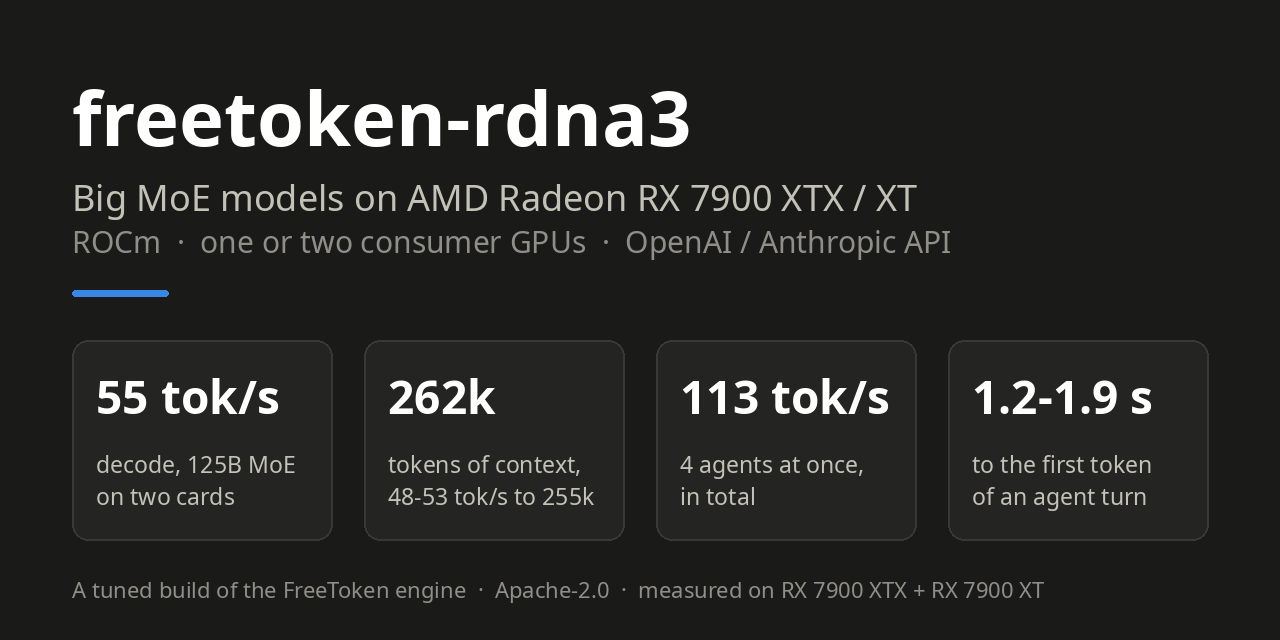
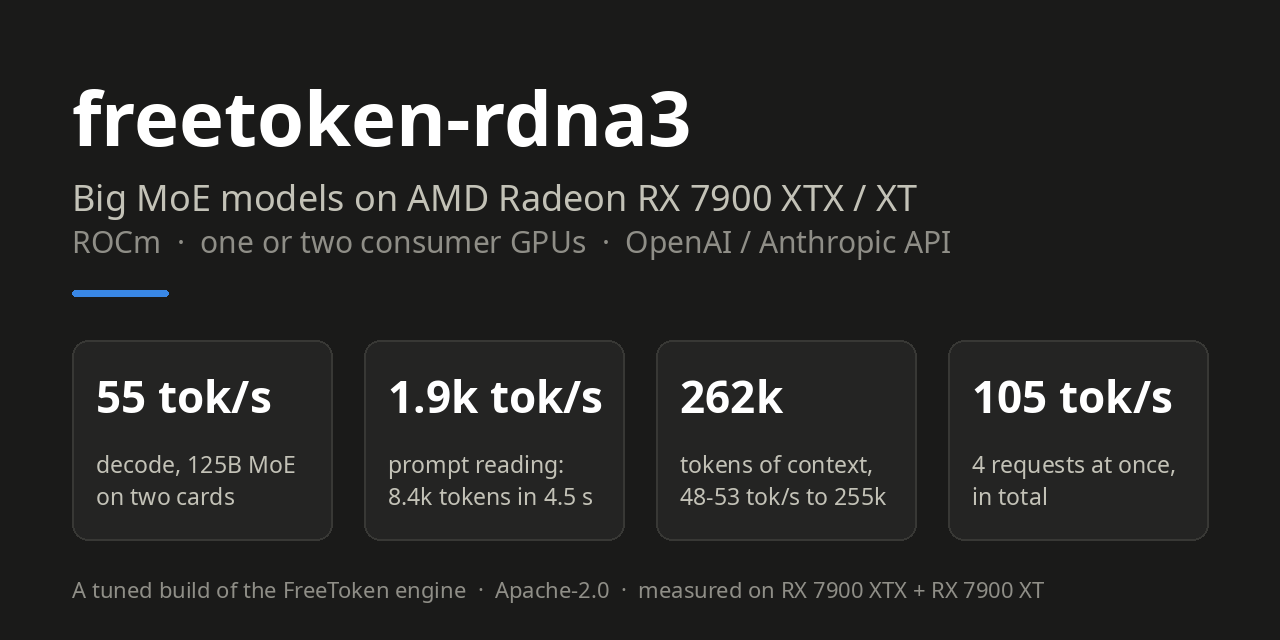
docs: measured multi-request decode and prompt reading of the release build
4 requests decode 105 tok/s in total on rdna3-v0.1.0 (55 / 81 / 98 / 105 at 1 / 2 / 3 / 4), not 113: that figure came
from an earlier build with a larger expert cache. Prompt reading is now given in tok/s (8.4k tokens cold: ~1850-2030
tok/s alone, ~2120 tok/s in total for four at once; new tokens of an agent turn 1400-1850 tok/s).

diff --git a/docs/rdna3/benchmarks.md b/docs/rdna3/benchmarks.md
@@ -18,12 +18,12 @@ re-measured against it: decode -0.4 % (within noise), 8.4k prefill ~1 % faster, 
 
 ## Summary
 
-| Profile | Decode | Decode, 10k to max depth | Cold 8.4k prompt | PP of new tokens | Agent turn, 10k -> max | Max depth |
+| Profile | Decode | Decode, 10k to max depth | Cold 8.4k prompt (PP) | PP of new tokens | Agent turn, 10k -> max | Max depth |
 |---|---:|---:|---:|---:|---:|---:|
-| `xtx-xt` | 55.3 tok/s | 48-53 tok/s | 4.5 s | 1400-1850 tok/s | 1.2 -> 1.9 s | 255k |
-| baseline, 2 cards | 35.9 tok/s | 33-35 tok/s | 6.3 s | 1290-1620 tok/s | 1.4 -> 2.0 s | 255k |
-| `xtx` | 36.5 tok/s | 32.5-34.3 tok/s | 10.5 s | 1180-1300 tok/s | 2.3 -> 2.7 s | 124k |
-| `xt` | 28.5 tok/s | 27-28 tok/s | 8.9 s | 1100-1190 tok/s | 2.4 -> 2.7 s | 124k |
+| `xtx-xt` | 55.3 tok/s | 48-53 tok/s | 4.5 s, ~1850 tok/s | 1400-1850 tok/s | 1.2 -> 1.9 s | 255k |
+| baseline, 2 cards | 35.9 tok/s | 33-35 tok/s | 6.3 s, ~1330 tok/s | 1290-1620 tok/s | 1.4 -> 2.0 s | 255k |
+| `xtx` | 36.5 tok/s | 32.5-34.3 tok/s | 10.5 s, ~800 tok/s | 1180-1300 tok/s | 2.3 -> 2.7 s | 124k |
+| `xt` | 28.5 tok/s | 27-28 tok/s | 8.9 s, ~940 tok/s | 1100-1190 tok/s | 2.4 -> 2.7 s | 124k |
 
 Decode holds to the maximum context on every profile (at most ~10 % lower at 255k than at 10k). Reading the new part
 of an agent turn costs about the same with or without the tuning: every prefill pass streams the experts it uses from
@@ -78,10 +78,16 @@ The XT ends at 124k with 0.8 GiB of VRAM free: 131k is its limit. A 60k-token pr
 
 | Workload | Result |
 |---|---|
-| Decode throughput, 1 / 2 / 4 requests | 57 / 82 / 113 tok/s in total |
+| Decode, 1 / 2 / 3 / 4 requests at once | 55 / 81 / 98 / 105 tok/s in total (55 / 40 / 33 / 26 per request) |
+| Cold 8.4k-token prompts (PP), 1 / 4 at once | 4.1 s, ~2030 tok/s / all four in 15.7 s, ~2120 tok/s in total (the first answers after 11.5 s) |
 | 4 agents, 82-117k-token conversations, 3 turns each (together more than the GPUs hold) | 35 s, first token of each turn 1.9-2.3 s; without the RAM tier 599 s and ~47 s per turn (1.15M tokens recomputed) |
 | 4 agents x 12 short turns, small GPU pool | 94 s instead of 143 s without the RAM tier |
-| 4 requests with different sampling settings (greedy, top-p only, top-k 1000, top-k 20) | ~28 tok/s per request |
+| 4 requests with different sampling settings (greedy, top-p only, top-k 1000, top-k 20), 256-token answers | ~27-28 tok/s per request |
+
+The first two rows are the release build (`rdna3-v0.1.0`), median of two passes: 512-token answers, counted only while
+every request is decoding. Four requests share one decode step, so each gets ~26 tok/s; real agents also wait for
+each other's prefills. The first long prompt after a start is slower (8.4k tokens in 6.0 s: one-time kernel
+preparation).
 
 A request is computed the same way alone or batched (per-row kernels); prompts prefilled in the same batch can differ
 at rounding level, as they already do with prefix caching.
@@ -95,7 +101,7 @@ at rounding level, as they already do with prefix caching.
 | + int8 dense layers, split-K GEMVs, one MoE all-reduce per block | 52.4 |
 | + top-k-first sampler, uneven 0.55 split | 55.5 |
 | + host-memory all-reduce, tuned NVFP4 tiles, bf16 attention KV (int8 KV dropped) | 56-57 |
-| + up to 4 requests, 16k prefill chunks, conversations kept in RAM (`xtx-xt`) | 55 alone, 113 at 4 |
+| + up to 4 requests, 16k prefill chunks, conversations kept in RAM (`xtx-xt`) | 55 alone, 105 at 4 |
 
 Details of every step, including what did not work: [journey.md](journey.md).
 

diff --git a/docs/rdna3/profiles.md b/docs/rdna3/profiles.md
@@ -47,7 +47,7 @@ A comment may follow a value on the same line. Copy a file to make your own prof
 | `--expert-load parallel` | | reads the expert files into RAM with parallel readers; `auto` (the engine's default) does the same but falls back to a slower serial read when free RAM is short: use it on a machine with little RAM to spare |
 | `--quant-backend moe.nvfp4=triton` | | the Triton NVFP4 expert kernels (the other backends need NVIDIA hardware) |
 | `--ple-backend disk` | | the 51 GB n-gram embedding tables are read from the checkpoint files on demand |
-| `--max-running-requests 4 --cuda-graph-max-bs 4` | | up to 4 requests decoded together, each computed row by row as if alone (prompts prefilled in the same batch can differ at rounding level): 57 / 82 / 113 tok/s in total at 1 / 2 / 4 |
+| `--max-running-requests 4 --cuda-graph-max-bs 4` | | up to 4 requests decoded together, each computed row by row as if alone (prompts prefilled in the same batch can differ at rounding level): 55 / 81 / 98 / 105 tok/s in total at 1 / 2 / 3 / 4 requests |
 | `--max-prefill-length 16384` | | 16k-token prompt chunks: each chunk streams every expert once, so bigger chunks read long prompts ~1.5x faster |
 | `--memory-ratio 0.80` | | VRAM budget; 0.80 leaves the headroom 16k chunks need on the 20 GB card |
 | `--moe-prefill-hit-d2d` | | experts already cached on the GPU are reused during prefill instead of crossing PCIe: agent turn 1.55 -> 1.18 s |

diff --git a/docs/rdna3/journey.md b/docs/rdna3/journey.md
@@ -106,7 +106,8 @@ from every profile. From then on the rule was: **bit-exact changes, or changes v
   prefill MoE x1.5-1.8, long reads -11 %, decode +1.3 %.
 - **Several requests**: the decode GEMVs run their unchanged per-row body once per request, so a request gets the same
   bits alone or batched; CUDA graphs for every batch size up to 4. 57 / 82 / 113 tok/s in total at 1 / 2 / 4
-  requests; four agents finish the same work ~2.6x sooner.
+  requests on that first build; reserving the recurrent states of four requests then cost ~650 expert-cache slots, and
+  the release build does 55 / 81 / 98 / 105 at 1 / 2 / 3 / 4. Four agents finish the same work ~2.6x sooner.
 - One multi-request crash found on the way: several requests prefilled together made the PLE layer allocate ~2.6 GiB
   of temporaries and ran the XT out of memory; blocking it for several requests too brought it to 0.7 GiB, same output.
 

diff --git a/docs/rdna3/decisions.md b/docs/rdna3/decisions.md
@@ -69,7 +69,7 @@ probes) are used to reject changes, never to accept them alone.
 |---|---|
 | Choice | `--max-running-requests 4` with CUDA graphs for every batch size up to 4, per-row decode kernels |
 | Alternatives | One request at a time (upstream's single-agent setting) |
-| For | 57 / 82 / 113 tok/s in total at 1 / 2 / 4 requests; parallel sub-agents finish ~2.6x sooner; a request alone computes exactly as before |
+| For | 55 / 81 / 98 / 105 tok/s in total at 1 / 2 / 3 / 4 requests; parallel sub-agents finish ~2.6x sooner; a request alone computes exactly as before |
 | Against | Each request decodes slower when others run (~41 tok/s each at 2, ~28 at 4); prompts prefilled in one batch can differ at rounding level; GDN state for 4 requests (too much for one card: one card stays at 1) |
 
 ## Conversations kept in RAM

diff --git a/README.md b/README.md
@@ -14,8 +14,9 @@ with an OpenAI- and Anthropic-compatible API.
 |---|---:|---:|
 | Decode, short context | **55 tok/s** | 36 tok/s |
 | Decode, 10k to 255k tokens of context | **48-53 tok/s** | 33-35 tok/s |
-| 8.4k-token prompt | **4.5 s** | 6.3 s |
-| Requests at once | **4** (113 tok/s in total) | 1 |
+| Reading an 8.4k-token prompt, cold (PP) | **4.1-4.5 s, ~1850-2030 tok/s** | 6.3 s, ~1330 tok/s |
+| Reading the new part of an agent turn (PP), 10k to 255k | **1400-1850 tok/s** | 1290-1620 tok/s |
+| Requests decoding at once | **4** (105 tok/s in total) | 1 |
 
 Four agents with ~100k-token conversations taking turns: **35 s instead of 599 s** without the RAM tier, because a
 conversation pushed off the GPUs is kept in system RAM and resumes in ~2 s instead of being re-read.

diff --git a/docs/rdna3/how-it-works.md b/docs/rdna3/how-it-works.md
@@ -89,7 +89,7 @@ the draws outside the top-20 on one distribution) and its top-p was approximate.
 
 Up to 4 requests decode together (`--max-running-requests 4`), with CUDA graphs captured for every batch size up to 4.
 The decode GEMVs run their unchanged per-row body once per request (the weight tile loaded once when the reduction fits
-one tile), so batching changes speed, not answers: 57 / 82 / 113 tok/s in total at 1 / 2 / 4 requests. Prefills are
+one tile), so batching changes speed, not answers: 55 / 81 / 98 / 105 tok/s in total at 1 / 2 / 3 / 4 requests. Prefills are
 not mixed with decode steps in one batch (estimated at ~3 %, not done); agents naturally overlap their prefills.
 
 ## Conversations kept in RAM
